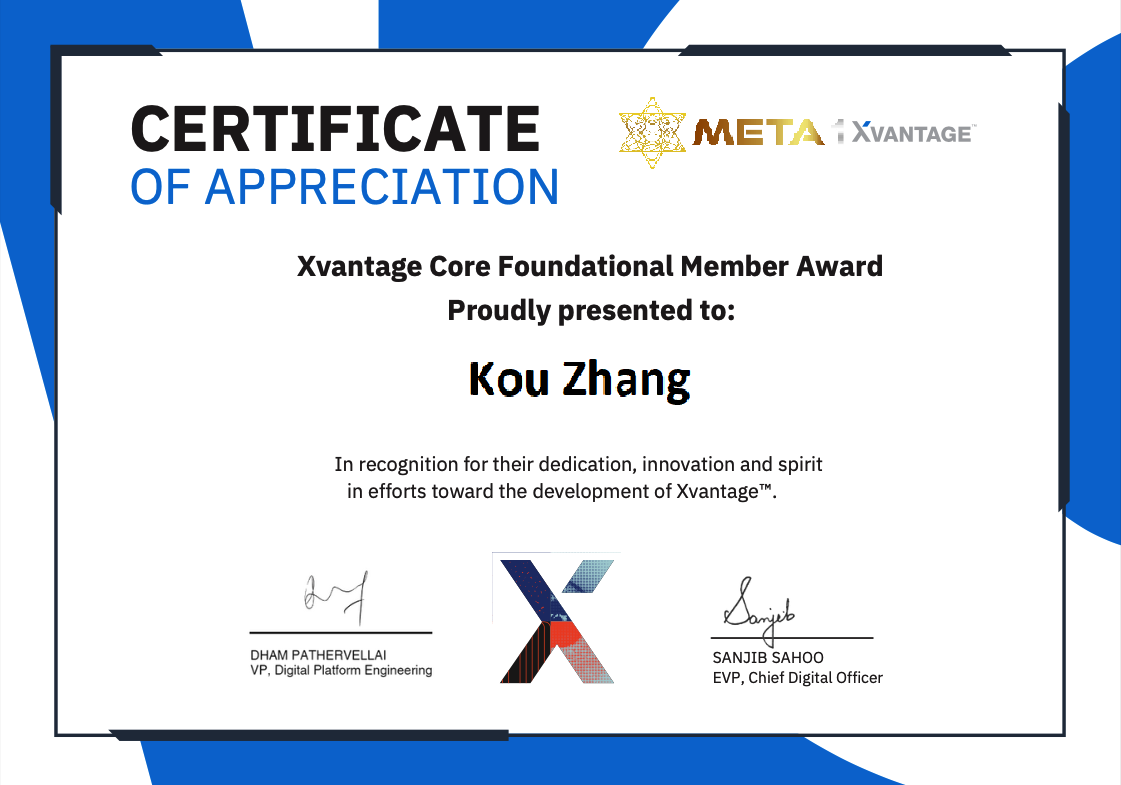
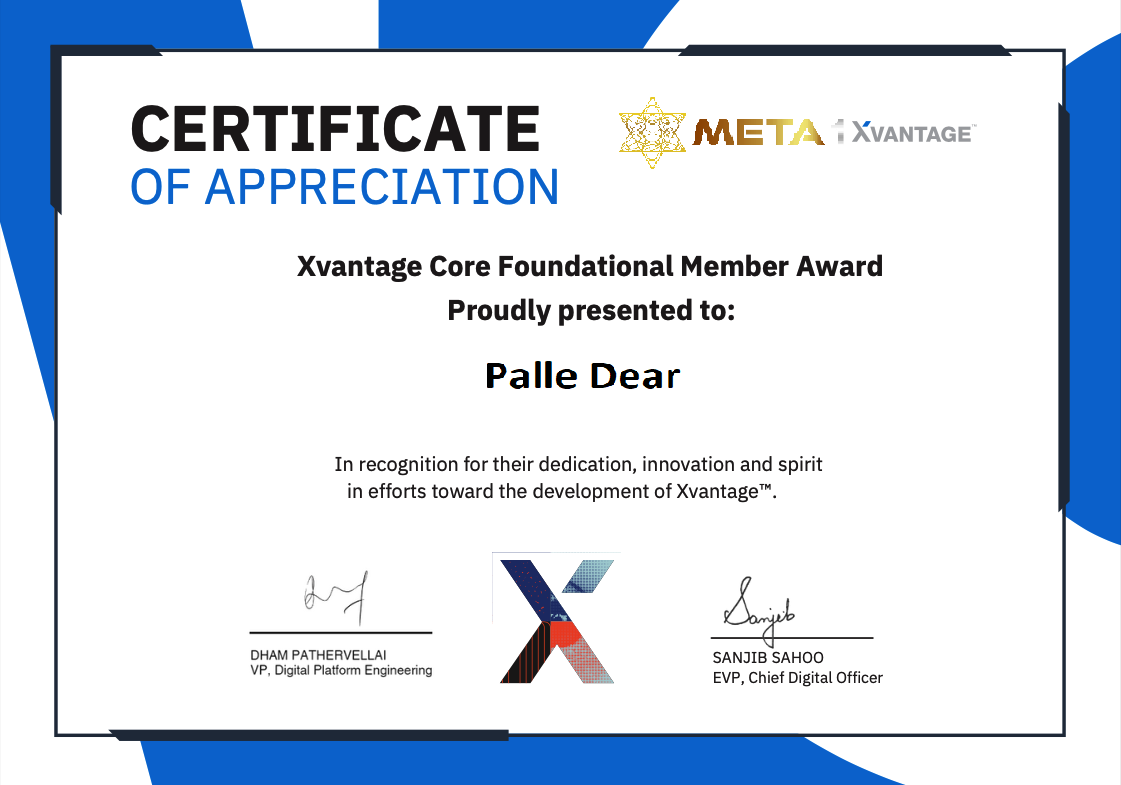
update

Changed region(s): [[0.4059, 0.4586, 0.6244, 0.5197]]

diff --git a/src/constants/index.js b/src/constants/index.js
@@ -131,7 +131,7 @@ import {
       company_name: "Meta1 Coin Trust",
       icon: "/meta1.jpg",
       iconBg: "rgb(255, 255, 255)",
-      date: "Feb 2022 - Present",
+      date: "Feb 2021 - Present",
       points: [
         "	As Lead Developer for Meta-Exchange, I built both the backend with Solidity and Node.js and the frontend with React for a secure, dynamic decentralized trading platform with real-time features.",
         "I led the development of Meta1 Explorer, a blockchain explorer with a Node.js and Python backend for data processing and SQL integration, and a React frontend for user-friendly access to transaction history, block details, and smart contract interactions, addressing performance challenges and ensuring real-time data accuracy.",
@@ -144,68 +144,68 @@ import {
       company_name: "Ment Tech",
       icon: "/menttech.jpg",
       iconBg: "rgb(255, 255, 255)",
-      date: "Aug 2021 - Apr 2022",
+      date: "Aug 2019 - Apr 2021",
       points: [
         "	ECO Swap is a decentralized exchange (DEX) platform designed for token trading and liquidity management. As a Full Stack Developer, I developed both frontend and backend components. On the backend, I used Node.js and Solidity to build and deploy smart contracts for managing trades and liquidity pools. On the frontend, I utilized React to create a user-friendly interface for executing trades and interacting with the platform. The project involved integrating blockchain functionalities and ensuring the platform could handle high transaction volumes securely and efficiently.",
         "World Crypto Exchange is a blockchain-based platform for managing and trading cryptocurrencies. In this role, I worked on developing the core features of the platform, including smart contract implementation and integration. I used React for the frontend to provide a seamless trading experience and Node.js with MongoDB on the backend to handle user data and transaction processing. My contributions ensured a secure and user-friendly interface for cryptocurrency trading, meeting the needs of both novice and experienced traders.",
       ],
     },
     {
-      title: "Lead Developer",
+      title: "Senior Fullstack Developer",
       company_name: "colle.ge",
       icon: "/college.png",
       iconBg: "rgb(255, 255, 255)",
-      date: "Jan 2020 - Dec 2021",
+      date: "May 2018 - May 2019",
       points: [
-        " As a Lead Developer at colle.ge, I played a critical role in the development and maintenance of an educational platform designed to enhance the learning experience for students and educators. The platform was built using AngularJS for the frontend, .NET for backend services, and MSSQL for database management. My responsibilities included architecting the system, implementing key features, and ensuring the platform's overall performance, scalability, and security.",
+        " As a Fullstack Developer at colle.ge, I played a critical role in the development and maintenance of an educational platform designed to enhance the learning experience for students and educators. The platform was built using AngularJS for the frontend, .NET for backend services, and MSSQL for database management. My responsibilities included architecting the system, implementing key features, and ensuring the platform's overall performance, scalability, and security.",
       ],
     },
     {
-      title: "Front-End Developer (Gatsby Developer)",
+      title: "Senior Frontend Developer",
       company_name: "SpillAgency",
       icon: "/spillagency.png",
       iconBg: "rgb(0, 0, 0)",
-      date: "Jan 2020 - Jan 2021",
+      date: "Jan 2018 - Mar 2018",
       points: [
         " At SpillAgency, I worked as a Front-End Developer focusing on building and enhancing an e-commerce platform and ordering system. My primary role involved using Gatsby and GraphQL to develop a fast, scalable, and SEO-friendly front end for the platform. I played a key role in creating a seamless and interactive user experience, ensuring that the platform was both visually appealing and highly functional.",
       ],
     },
     {
-      title: "Full Stack Developer",
+      title: "Senior Frontend Developer",
       company_name: "Resmio",
       icon: "/resmio.png",
       iconBg: "rgb(255, 255, 255)",
-      date: "Apr 2019 - Jun 2020",
+      date: "May 2017 - Dec 2017",
       points: [
-        " At Resmio, I worked as a Full Stack Developer on a comprehensive platform designed to manage restaurant reservations and customer interactions. The platform aimed to streamline the booking process for both customers and restaurant staff, offering features that improved operational efficiency and enhanced the dining experience.",
+        " At Resmio, I worked as a Frontend Developer on a comprehensive platform designed to manage restaurant reservations and customer interactions. The platform aimed to streamline the booking process for both customers and restaurant staff, offering features that improved operational efficiency and enhanced the dining experience.",
       ],
     },
     {
-      title: "Full Stack Developer",
+      title: "Junior Full Stack Developer",
       company_name: "Arbox",
       icon: "/arbox.png",
       iconBg: "rgb(0, 210, 130)",
-      date: "Jan 2019 - Oct 2019",
+      date: "Sep 2016 - Feb 2017",
       points: [
         " At Arbox, I served as a Full Stack Developer, contributing to the development of a business management platform aimed at fitness centers and gyms. The platform was designed to help businesses manage various aspects of their operations, including scheduling, billing, customer management, and communication.",
       ],
     },
     {
-      title: "iOS and Android Developer",
+      title: "Junior Mobile Developer",
       company_name: "PinTalk",
       icon: "/pintalk.png",
       iconBg: "rgb(0, 0, 0)",
-      date: "Aug 2018 - Dec 2018",
+      date: "Jun 2016 - Jan 2017",
       points: [
         " At PinTalk, I worked as an iOS and Android Developer, focusing on developing a real-time messaging and location-based service application. The app was designed to facilitate communication between users while providing location-based features that enhanced the overall user experience.",
       ],
     },
     {
-      title: "Software Engineer & Architect",
+      title: "Software Engineer Intern",
       company_name: "Mattermost",
       icon: "/mattermost.png",
       iconBg: "rgb(255, 255, 255)",
-      date: "Aug 2018 - Present",
+      date: "Apr 2016 - Jun 2016",
       points: [
         " As a Software Engineer on the Mattermost Internal Tool project, I was responsible for developing and maintaining a tool designed to streamline internal collaboration and management processes within the organization. The tool was built to improve communication, task management, and workflow automation for Mattermost’s internal teams",
       ],
@@ -216,7 +216,7 @@ import {
   const testimonials = [
     {
       testimonial:
-        "I thought it was impossible to make a website as beautiful as our product, but Kok proved me wrong.",
+        "I thought it was impossible to make a website as beautiful as our product, but Palle proved me wrong.",
       name: "Robert Dunlap",
       designation: "CEO",
       company: "Meta1 Coin Trust",
@@ -224,7 +224,7 @@ import {
     },
     {
       testimonial:
-        "I've never met a developer who truly cares about their clients' success like Kok does.",
+        "I've never met a developer who truly cares about their clients' success like Palle does.",
       name: "Ujjwal Sahay",
       designation: "CEO & MD",
       company: "Ment Tech",
@@ -232,7 +232,7 @@ import {
     },
     {
       testimonial:
-        "After Kok optimized our website, our traffic increased by 50%. We can't thank them enough!",
+        "After Palle optimized our website, our traffic increased by 50%. We can't thank them enough!",
       name: "Rodrigo Lara",
       designation: "COO",
       company: "weLove.education",

diff --git a/src/components/Navbar.jsx b/src/components/Navbar.jsx
@@ -20,7 +20,7 @@ const Navbar = () => {
           }}
         >
           <img src={logo} alt='logo' className='w-9 h-9 object-contain' />
-          <p className='text-white text-[18px] font-bold cursor-pointer flex'>Kok | Sr. Javascript, Blockchain, AI Developer</p>
+          <p className='text-white text-[18px] font-bold cursor-pointer flex'>Palle | Sr. Javascript, Blockchain, AI Developer</p>
         </Link>
         <ul className='list-none hidden sm:flex flex-row gap-10'>
           {navLinks.map((link) => (

diff --git a/src/components/Hero.jsx b/src/components/Hero.jsx
@@ -17,7 +17,7 @@ const Hero = () => {
         </div>
         <div>
           <h1 className={`${styles.heroHeadText} text-white`}>
-            Hi, I'm <span className="text-[#915EFF] text-[70px] ">Kou Zhang</span>
+            Hi, I'm <span className="text-[#915EFF] text-[70px] ">Palle Dear</span>
           </h1>
           <p className={`${styles.heroSubText} mt-2 text-white-100`}>
             I develop web applications, user <br className="sm:block hidden" />

diff --git a/src/components/Contact.jsx b/src/components/Contact.jsx
@@ -35,9 +35,9 @@ const Contact = () => {
     "template_ipqqwd8",
     {
       from_name:form.name,
-      to_name:"Kou Zhang",
+      to_name:"Palle Dear",
       from_email: form.email,
-      to_email:"antman357357@gmail.com",
+      to_email:"palledear@outlook.com",
       message:form.message,
     },
     "U9WPEpq8CYqpEQFig"

diff --git a/index.html b/index.html
@@ -4,7 +4,7 @@
     <meta charset="UTF-8" />
     <link rel="icon" type="image/svg+xml" href="/logo.svg" />
     <meta name="viewport" content="width=device-width, initial-scale=1.0" />
-    <title>Kok | Portfolio
+    <title>Palle | Portfolio
     </title>
   </head>
   <body>
